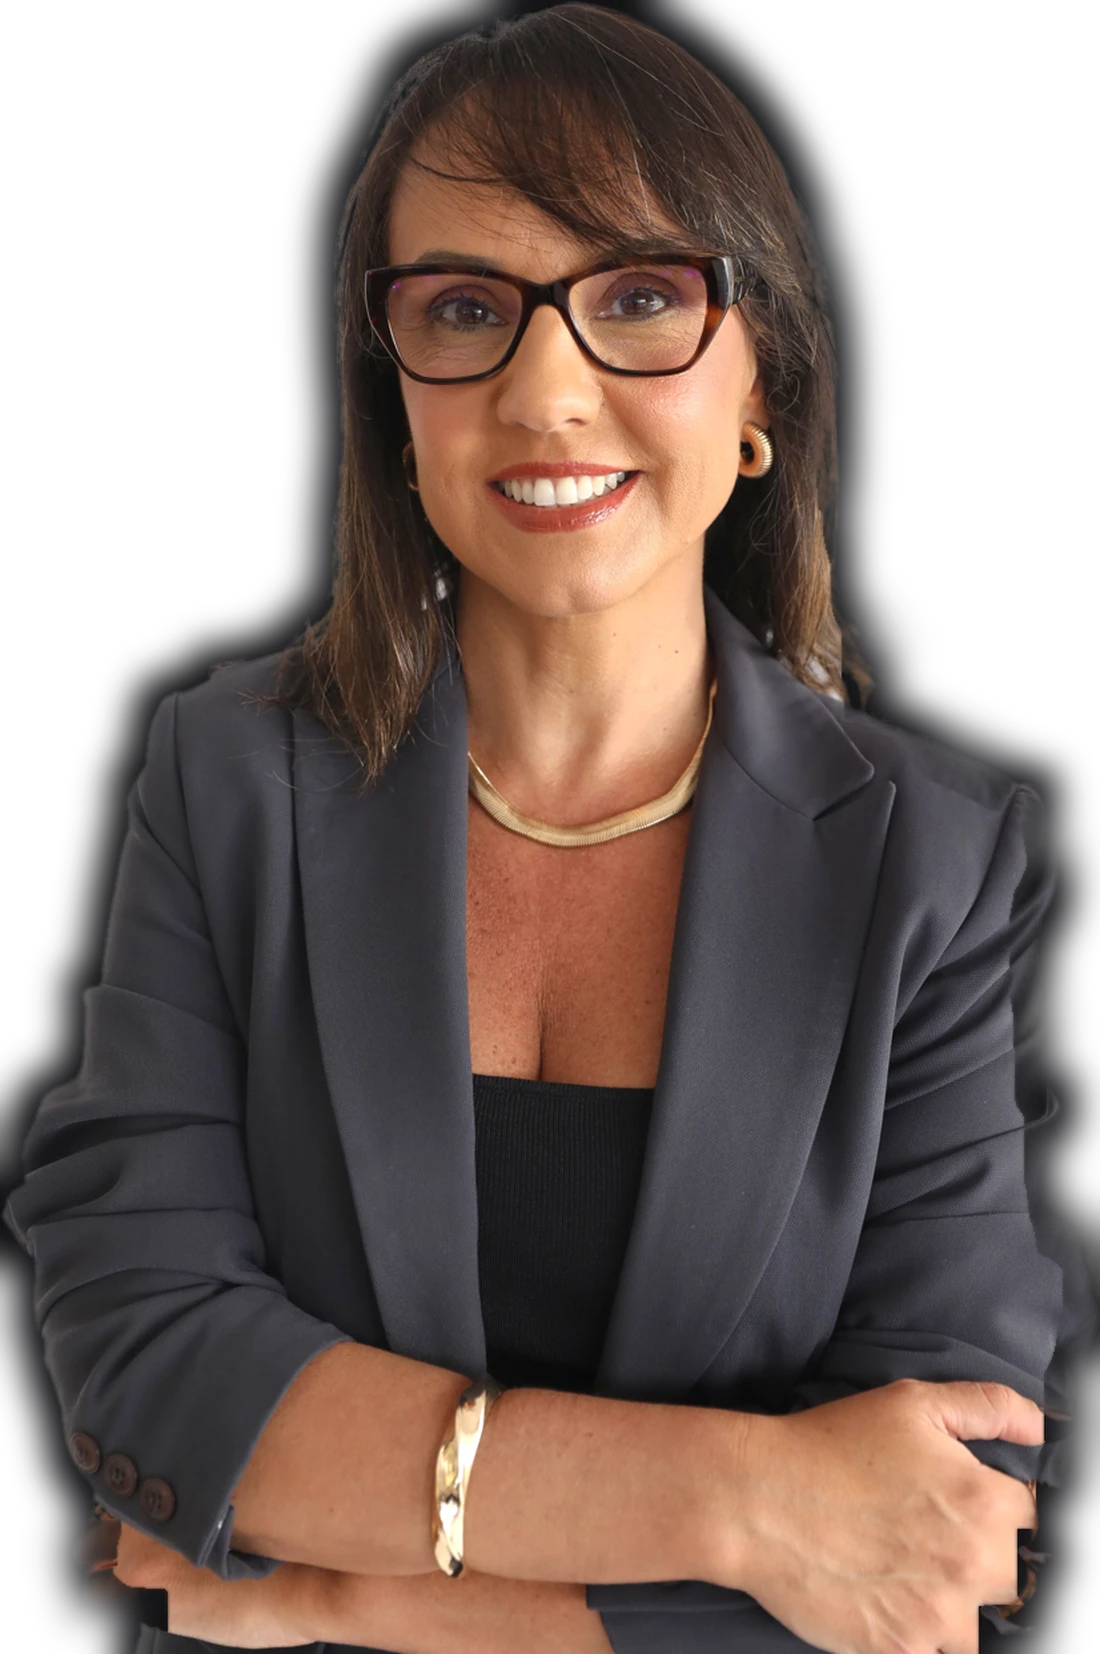
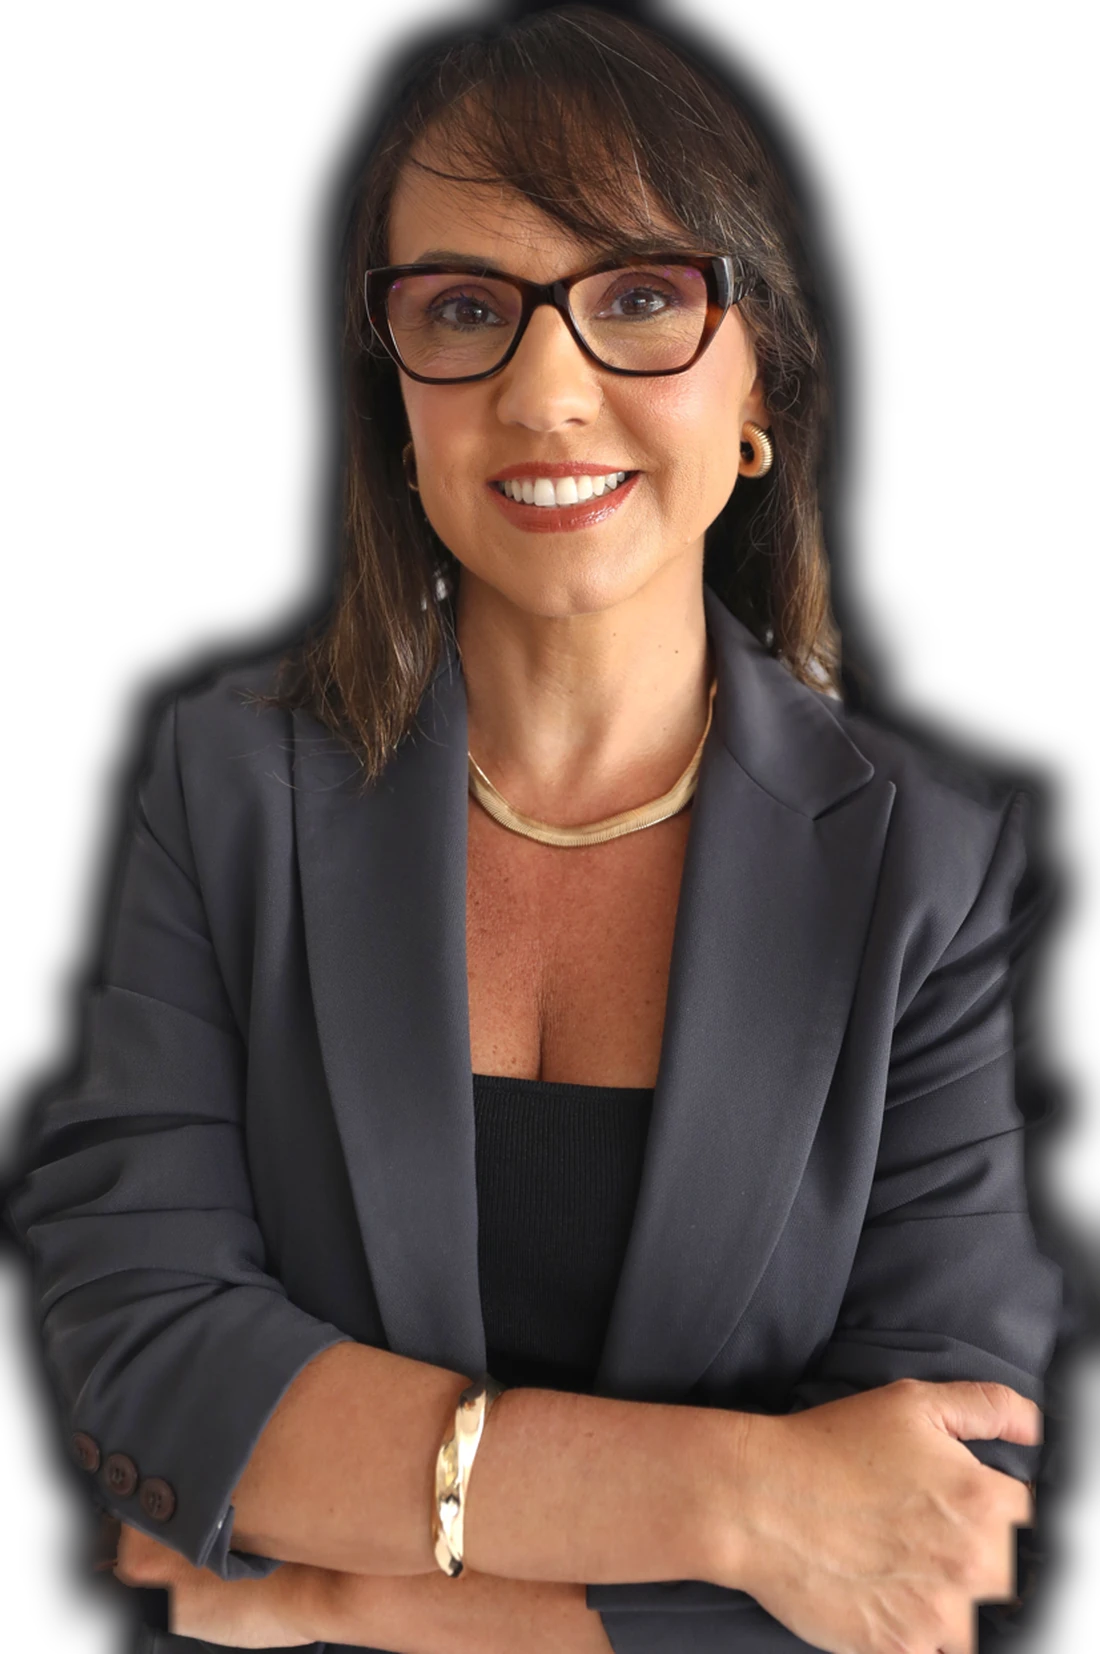
Foto: aro escuro em toda a silhueta; mobile: foto reenquadrada no topo
- daniela-noir.webp: os 5px mais externos da silhueta são puxados para a cor
  do fundo, eliminando qualquer resíduo claro (ombros inclusive)
- Mobile: foto vem antes do texto, largura total, enquadrada em 4:5 do rosto
  aos braços, esvanecendo para o título

diff --git a/maisonlegacy-ap0223/public/css/style.css b/maisonlegacy-ap0223/public/css/style.css
@@ -308,9 +308,12 @@ body.is-ready .nav { transform: none; opacity: 1; }
   .hero__meta-item--price { flex-basis: 100%; border-right: 0; border-top: 1px solid var(--line); margin-left: 0; }
   .hero__scroll { display: none; }
   .intro__grid, .local { grid-template-columns: 1fr; }
-  .final { grid-template-columns: 1fr; gap: 0; padding-top: 72px; }
-  .final__content { order: 1; padding-bottom: 40px; }
-  .final__photo { order: 2; max-width: 380px; }
+  /* mobile: foto no topo, largura total, enquadrada do rosto aos braços, esvanecendo para o texto */
+  .final { grid-template-columns: 1fr; gap: 0; padding: 40px 0 48px; }
+  .final__photo { order: 1; max-width: none; aspect-ratio: 4 / 5; overflow: hidden; margin-bottom: -24px; }
+  .final__photo img { width: 100%; height: 100%; object-fit: cover; object-position: top center; -webkit-mask-image: linear-gradient(to bottom, #000 68%, transparent); mask-image: linear-gradient(to bottom, #000 68%, transparent); }
+  .final__content { order: 2; padding: 0 var(--pad); }
+  .final__content h2 { font-size: clamp(36px, 10vw, 48px); }
   .final__name { padding-left: 0; border-left: 0; }
   .intro__num { position: static; }
   .hgal__head { margin-bottom: 28px; }
